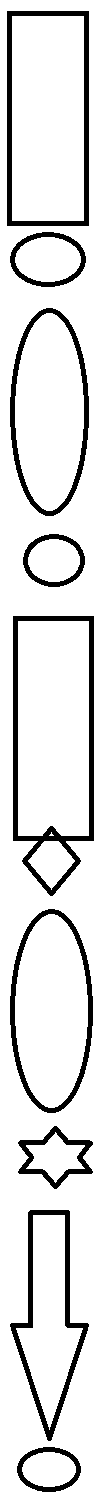
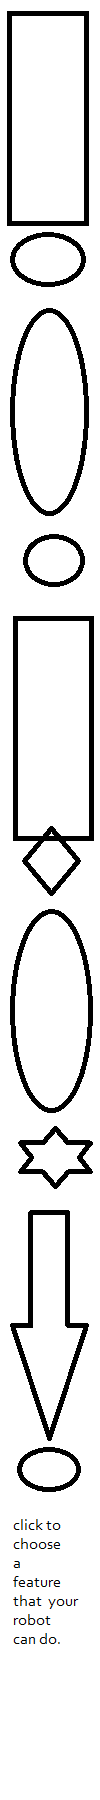
roblox character created
aligned leg options; created confirm button.

Changed region(s): [[0.09, 0.46, 0.96, 1.0], [0.06, 0.1227, 0.96, 0.4293], [0.12, 0.0, 0.84, 0.0307]]

diff --git a/_theNextRoboticist/js/subsystem.js b/_theNextRoboticist/js/subsystem.js
@@ -1,13 +1,41 @@
 let subsystemState = function () {}
 
 subsystemState.prototype.preload=function(){
+	//load json files for the spritesheet; also load texture maps
 	newGame.load.atlasJSONHash ('head', 'assets/image/robot_body/heads/heads.png', 'assets/image/robot_body/heads/heads.json');
+	newGame.load.atlasJSONHash ('arm', 'assets/image/robot_body/arms/arms.png', 'assets/image/robot_body/arms/arms.json');
+	newGame.load.atlasJSONHash ('body', 'assets/image/robot_body/bodies/bodies.png', 'assets/image/robot_body/bodies/bodies.json');
+	newGame.load.atlasJSONHash ('wheel', 'assets/image/robot_body/wheels/wheels.png', 'assets/image/robot_body/wheels/wheels.json');
+
+	newGame.load.image ('confirmButton', 'assets/image/confirm.png');
 }
 
+// variables to choose the head
+var chosenHead;
+var chosenArm_right;
+var chosenArm_left;
+var chosenBody;
+var chosenWheel;
+
 subsystemState.prototype.create =function(){
-	headOptionA = newGame.add.sprite(0,0, 'head',1);
+	/*headOptionA = newGame.add.sprite(0,0, 'head',1);
 	headOptionB = newGame.add.sprite(0,100, 'head', 2);
 	headOptionC = newGame.add.sprite(0,200, 'head', 3);
+	headOptionNull = newGame.add.sprite(0,300, 'head', 0);*/
+	let style = { font: "bold 32px Arial", fill: "#F00", boundsAlignH: "center", boundsAlignV: "middle" };
+	let textTitle = newGame.add.text(0, 0, "Build Your Robot", style);
+	let mainInstructionsText = newGame.add.text(0,40, 'Instructions:', style);
+
+// MAKING THE ROBLOX CHARACTER
+	chosenHead = newGame.add.sprite(250,100, 'head', 0);
+	chosenBody = newGame.add.sprite(0,0, 'body',0).alignTo(chosenHead, Phaser.BOTTOM_CENTER, 0, 10);
+	chosenArm_right = newGame.add.sprite(0,0, 'arm', 0).alignTo(chosenBody, Phaser.LEFT_CENTER, -20,0);
+	chosenArm_left = newGame.add.sprite(0,0, 'arm', 0).alignTo(chosenBody, Phaser.RIGHT_CENTER, 10, 0);
+	chosenWheel = newGame.add.sprite(0, 0, 'wheel', 0).alignTo(chosenBody, Phaser.BOTTOM_CENTER, 0,10);
+
+//confirm button available in case selection is wanted
+	let confirm = newGame.add.button(0,0, 'confirmButton').alignTo(chosenWheel, Phaser.BOTTOM_CENTER, 0, 50);
+
 
 }
 
